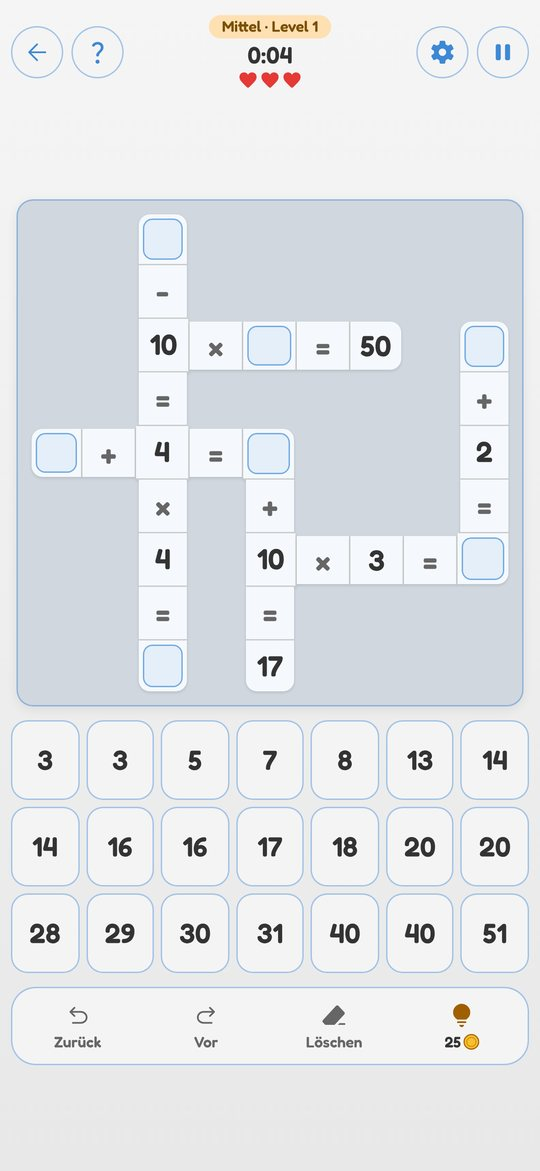
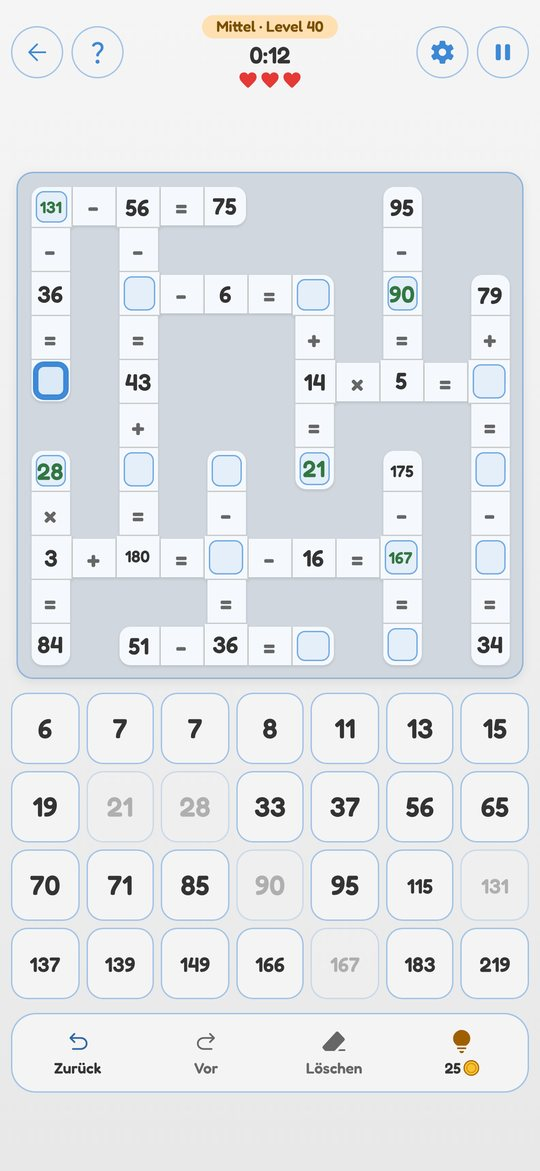
MindForge: Mathe-Raetsel-Bild auf Level 40 statt Level 1
Level 1 zeigt nur sechs Gleichungen und wirkt leerer als das Spiel.
Neu: Mittel, Level 40, volles Brett mit Malaufgaben und den ersten
eingesetzten Zahlen (DE/EN); alt-Texte angepasst.

Claude-Session: https://claude.ai/code/session_01UDSSgykzSWk3owtBjhELkj

diff --git a/games/mindforge/index.html b/games/mindforge/index.html
@@ -364,7 +364,7 @@
         <h3 data-i18n="shots">Screenshots</h3>
         <div class="shots-scroll">
             <div class="shot" tabindex="0" role="button" aria-label="Sudoku on Medium with lives, notes and auto-notes" data-alt-en="Sudoku on Medium with lives, notes and auto-notes" data-alt-de="Sudoku auf Mittel mit Leben, Notizen und Auto-Notizen"><img src="../../images/mf/v2-sudoku.jpg" data-src-en="../../images/mf/v2-sudoku.jpg" data-src-de="../../images/mf/v2-sudoku-de.jpg" data-alt-en="Sudoku on Medium with lives, notes and auto-notes" data-alt-de="Sudoku auf Mittel mit Leben, Notizen und Auto-Notizen" alt="Sudoku on Medium with lives, notes and auto-notes" width="540" height="1171" loading="lazy"></div>
-            <div class="shot" tabindex="0" role="button" aria-label="Crossmath grid: fill in the missing numbers" data-alt-en="Crossmath grid: fill in the missing numbers" data-alt-de="Mathe-Rätsel: die fehlenden Zahlen einsetzen"><img src="../../images/mf/v2-crossmath.jpg" data-src-en="../../images/mf/v2-crossmath.jpg" data-src-de="../../images/mf/v2-crossmath-de.jpg" data-alt-en="Crossmath grid: fill in the missing numbers" data-alt-de="Mathe-Rätsel: die fehlenden Zahlen einsetzen" alt="Crossmath grid: fill in the missing numbers" width="540" height="1171" loading="lazy"></div>
+            <div class="shot" tabindex="0" role="button" aria-label="Crossmath on Medium, level 40, with the first numbers filled in" data-alt-en="Crossmath on Medium, level 40, with the first numbers filled in" data-alt-de="Mathe-Rätsel auf Mittel, Level 40, mit den ersten eingesetzten Zahlen"><img src="../../images/mf/v2-crossmath.jpg" data-src-en="../../images/mf/v2-crossmath.jpg" data-src-de="../../images/mf/v2-crossmath-de.jpg" data-alt-en="Crossmath on Medium, level 40, with the first numbers filled in" data-alt-de="Mathe-Rätsel auf Mittel, Level 40, mit den ersten eingesetzten Zahlen" alt="Crossmath on Medium, level 40, with the first numbers filled in" width="540" height="1171" loading="lazy"></div>
             <div class="shot" tabindex="0" role="button" aria-label="Swedish-style crossword with clues in the grid" data-alt-en="Swedish-style crossword with clues in the grid" data-alt-de="Schwedenrätsel mit Hinweisen im Gitter"><img src="../../images/mf/v2-crossword.jpg" data-src-en="../../images/mf/v2-crossword.jpg" data-src-de="../../images/mf/v2-crossword-de.jpg" data-alt-en="Swedish-style crossword with clues in the grid" data-alt-de="Schwedenrätsel mit Hinweisen im Gitter" alt="Swedish-style crossword with clues in the grid" width="540" height="1171" loading="lazy"></div>
             <div class="shot" tabindex="0" role="button" aria-label="Daily challenge with three puzzles, streak and archive" data-alt-en="Daily challenge with three puzzles, streak and archive" data-alt-de="Tägliche Herausforderung mit drei Rätseln, Serie und Archiv"><img src="../../images/mf/v2-daily.jpg" data-src-en="../../images/mf/v2-daily.jpg" data-src-de="../../images/mf/v2-daily-de.jpg" data-alt-en="Daily challenge with three puzzles, streak and archive" data-alt-de="Tägliche Herausforderung mit drei Rätseln, Serie und Archiv" alt="Daily challenge with three puzzles, streak and archive" width="540" height="1171" loading="lazy"></div>
             <div class="shot" tabindex="0" role="button" aria-label="Shop with special designs and their background motifs" data-alt-en="Shop with special designs and their background motifs" data-alt-de="Shop mit Special-Designs und ihren Motiven"><img src="../../images/mf/v2-designs.jpg" data-src-en="../../images/mf/v2-designs.jpg" data-src-de="../../images/mf/v2-designs-de.jpg" data-alt-en="Shop with special designs and their background motifs" data-alt-de="Shop mit Special-Designs und ihren Motiven" alt="Shop with special designs and their background motifs" width="540" height="1171" loading="lazy"></div>
